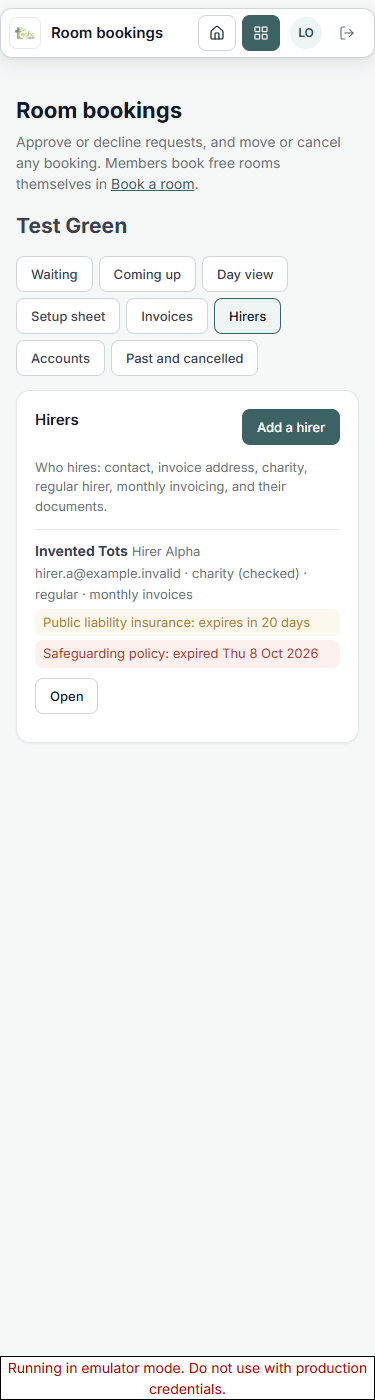
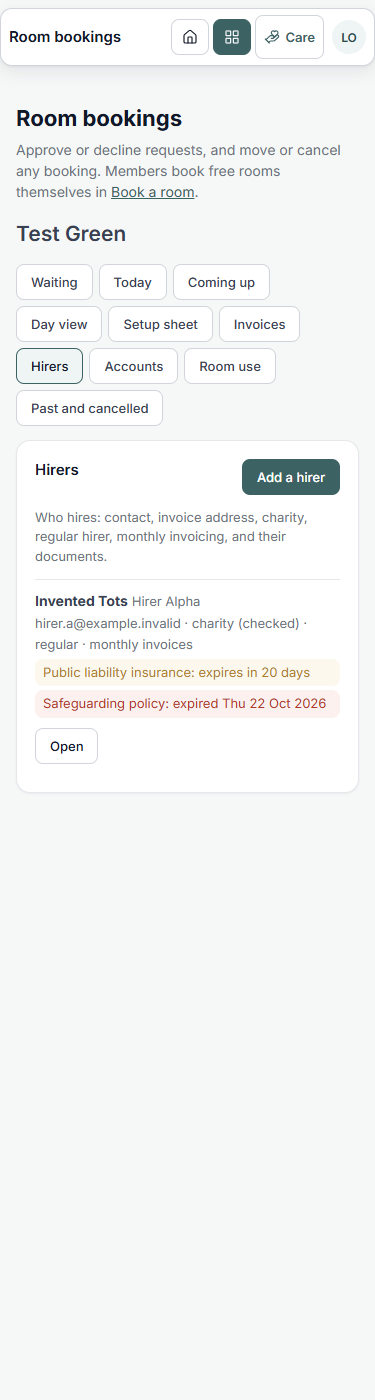
Events: the register's last warning - hirers who work with children, booked in the next 30 days with no safeguarding policy in date (counts only); the office ticks it on the hirer's record and the booking says so (F-276)

diff --git a/v2/egbc-events-money.js b/v2/egbc-events-money.js
@@ -24,6 +24,11 @@
     if (n <= SOON) return { cls: 'wait', words: 'expires in ' + n + ' day' + (n === 1 ? '' : 's') };
     return { cls: 'ok', words: 'until ' + EGBCEvents.fmtDate(d.expires + 'T12:00') };
   }
+  /* works with children, and no safeguarding policy in date on file */
+  function needsPolicy(h) {
+    if (!h || h.withChildren !== true) return false;
+    return !(h.documents || []).some(function (d) { return d.kind === 'safeguarding' && docState(d).cls !== 'no'; });
+  }
   function lastMonth() { var d = new Date(); d.setDate(1); d.setMonth(d.getMonth() - 1); return d.getFullYear() + '-' + String(d.getMonth() + 1).padStart(2, '0'); }
 
   function EGBCMoney(ctx) {
@@ -44,7 +49,8 @@
       var bad = (h.documents || []).map(function (d) { return { d: d, s: docState(d) }; }).filter(function (x) { return x.s.cls !== 'ok'; });
       return '<div class="hint" data-hirer="' + esc(b.key) + '">Hirer: <b>' + esc(h.org || h.name) + '</b>' +
         (h.charity ? ' · charity' + (h.charityChecked ? ' (checked)' : ' (not yet checked)') : '') + (h.regular ? ' · regular' : '') + (h.monthly ? ' · invoiced monthly' : '') + '</div>' +
-        bad.map(function (x) { return '<div class="st ' + x.s.cls + '" data-docwarn="' + esc(b.key) + '">' + esc(label(x.d.kind)) + ' ' + esc(x.s.words) + '.</div>'; }).join('');
+        bad.map(function (x) { return '<div class="st ' + x.s.cls + '" data-docwarn="' + esc(b.key) + '">' + esc(label(x.d.kind)) + ' ' + esc(x.s.words) + '.</div>'; }).join('') +
+        (needsPolicy(h) ? '<div class="st no" data-sgpolicy="' + esc(b.key) + '">Works with children: no safeguarding policy in date on file.</div>' : '');
     }
     function label(kind) { return (DOCS.filter(function (d) { return d[0] === kind; })[0] || [0, 'Document'])[1]; }
 
@@ -63,7 +69,7 @@
       if (openId !== undefined) form(openId, prefill);
     }
     function form(id, prefill) {
-      var h = id ? ctx.hirers().filter(function (x) { return x.id === id; })[0] : Object.assign({ name: '', org: '', email: '', phone: '', address: '', charity: false, charityNumber: '', charityChecked: false, regular: false, monthly: false, notes: '', documents: [] }, prefill || {});
+      var h = id ? ctx.hirers().filter(function (x) { return x.id === id; })[0] : Object.assign({ name: '', org: '', email: '', phone: '', address: '', charity: false, charityNumber: '', charityChecked: false, regular: false, monthly: false, withChildren: false, notes: '', documents: [] }, prefill || {});
       var box = document.getElementById('h-form'), f = function (k, l, t) { return '<div class="field"><label class="l" for="hf-' + k + '">' + l + '</label><input class="inp" id="hf-' + k + '" ' + (t || '') + ' value="' + esc(h[k] || '') + '"></div>'; };
       var ck = function (k, l) { return '<label style="display:flex;gap:8px;align-items:center;margin:6px 0"><input type="checkbox" id="hf-' + k + '"' + (h[k] ? ' checked' : '') + '> ' + l + '</label>'; };
       box.innerHTML = '<div class="card" id="h-card"><h2>' + (id ? esc(h.org || h.name) : 'A new hirer') + '</h2>' +
@@ -71,6 +77,8 @@
         '<div class="field"><label class="l" for="hf-address">Invoice address</label><textarea class="inp" id="hf-address" style="height:70px;padding:8px 12px">' + esc(h.address || '') + '</textarea></div>' +
         ck('charity', 'A registered charity') + f('charityNumber', 'Charity number') + ck('charityChecked', 'We have checked the charity number (the charity rate applies)') +
         ck('regular', 'A regular hirer (the regular hirer rate applies)') + ck('monthly', 'Invoice monthly, all their bookings in a month together') +
+        ck('withChildren', 'Works with children or young people (they need an in-date safeguarding policy on file)') +
+        (needsPolicy(h) ? '<p class="st no" id="hf-sgneed" style="margin:4px 0 8px">No safeguarding policy in date on file. Add it under Documents.</p>' : '') +
         '<div class="field"><label class="l" for="hf-notes">Notes</label><input class="inp" id="hf-notes" maxlength="500" value="' + esc(h.notes || '') + '"></div>' +
         '<div class="acts"><button class="btn" id="hf-save">Save</button></div>' +
         (id ? '<h3 style="margin:16px 0 6px">Documents</h3>' + ((h.documents || []).length ? h.documents.map(function (d, i) {
@@ -91,7 +99,7 @@
       var v = function (k) { return document.getElementById('hf-' + k).value.trim(); }, c = function (k) { return document.getElementById('hf-' + k).checked; };
       var d = { siteId: ctx.siteId(), name: v('name').slice(0, 120), org: v('org').slice(0, 120), email: v('email').toLowerCase().slice(0, 200), phone: v('phone').slice(0, 40),
         address: document.getElementById('hf-address').value.trim().slice(0, 500), charity: c('charity'), charityNumber: v('charityNumber').slice(0, 40), charityChecked: c('charityChecked'),
-        regular: c('regular'), monthly: c('monthly'), notes: v('notes').slice(0, 500), documents: h.documents || [], active: true, updatedAt: new Date().toISOString() };
+        regular: c('regular'), monthly: c('monthly'), withChildren: c('withChildren'), notes: v('notes').slice(0, 500), documents: h.documents || [], active: true, updatedAt: new Date().toISOString() };
       if (!d.name) { ctx.toast('It needs a name'); return; }
       if (!/^[^@\s]+@[^@\s]+\.[^@\s]+$/.test(d.email)) { ctx.toast('It needs an email address, to match their bookings'); return; }
       var ref = id ? db().collection('hirers').doc(id) : db().collection('hirers').doc('hr_' + EGBCEvents.key(14));

diff --git a/v2/functions/sg-warnings.js b/v2/functions/sg-warnings.js
@@ -103,6 +103,13 @@ export async function siteWarnings({ db: dbi, siteId, today, review }) {
     rows(dbi.collection('sgRisks').where('siteId', '==', siteId))
   ]);
   const kidsIn = kidsToday.filter((x) => x.state === 'in'), leadIns = leadToday.filter((x) => x.state === 'in');
+  /* hirers who work with children and have no safeguarding policy in date: only then are the next 30 days' bookings read (by date, so no new index) */
+  const hirers = (await rows(dbi.collection('hirers').where('siteId', '==', siteId))).filter((h) => h.active !== false && h.withChildren === true && !Core.hirerPolicyOk(h, today));
+  if (hirers.length) {
+    const booked = new Set((await rows(dbi.collection('bookings').where('day', '>=', today).where('day', '<=', Core.plus(today, 30))))
+      .filter((b) => b.siteId === siteId && b.kind === 'hire' && !['declined', 'cancelled'].includes(b.status)).map((b) => String((b.requester || {}).email || '').toLowerCase()).filter(Boolean));
+    hirers.forEach((h) => { h.booked = booked.has(String(h.email || '').toLowerCase()); });
+  }
   const events = await eventsAt(dbi, siteId, today, 60);
   const childrenIn = {}, leadersIn = {};
   kidsIn.forEach((c) => { childrenIn[c.groupId] = (childrenIn[c.groupId] || 0) + 1; });
@@ -119,6 +126,7 @@ export async function siteWarnings({ db: dbi, siteId, today, review }) {
   const w = Core.warningsFrom({ today, settings: st,
     activities: activities.map((a) => ({ id: a.id, link: a.link || {} })),
     groups: gs, childrenIn, leadersIn, events, leaderMids, checks, consent,
+    hirers: hirers.map((h) => ({ withChildren: true, documents: (h.documents || []).map((x) => ({ kind: x.kind, expires: x.expires || '' })), booked: !!h.booked })),
     risks: risks.map((r) => ({ id: r.id, activityId: r.activityId, reviewDue: r.reviewDue || '', status: r.status })) });
 
   /* THE DIALS */

diff --git a/v2/bookings-admin.html b/v2/bookings-admin.html
@@ -23,7 +23,7 @@
 <script src="egbc-events-roomday.js?v=202610220900"></script>
 <script src="egbc-events-quote.js?v=202610101700"></script>
 <script src="egbc-accounts.js?v=202610131600"></script>
-<script src="egbc-events-money.js?v=202610131600"></script>
+<script src="egbc-events-money.js?v=202610231000"></script>
 <link href="https://fonts.googleapis.com/css2?family=Inter:wght@400;500;600;700&display=swap" rel="stylesheet">
 <style>
   :root{

diff --git a/v2/FINDINGS-events.md b/v2/FINDINGS-events.md
@@ -10818,3 +10818,46 @@ Every function must take the church from the sign-in's claim or the document's p
 - **Please find headroom** in bookingShape, officeCreate, marksNewBooking and the roomDays rule. For example: work a value out once with `let` instead of calling the same function several times, and check the cheap conditions first so the costly ones are skipped.
 - **How to measure:** the scratch method is in H-8. Pad signedIn with N spare `&& true` and see when the two cases fail. Today they fail at N=1; aim for N≥10.
 - **It matters for multi-church too:** the church ruleset's gate costs a little more per call, so these two cases fail there until you've found the headroom.
+
+### F-276 — The safeguarding register's last warning: hirers who work with children (F-265's warnings table; the events window, 23 Oct)
+
+**Why:** F-265's warnings table planned "hirers with children: a safeguarding policy missing or out of date, for hirers booked in the next 30 days who work with children". It wasn't built in step 3 (F-271/F-272, "found and not fixed"), because nothing in the hub said which hirers work with children.
+
+**Built:**
+- **Hirers page** (egbc-events-money.js, on bookings-admin.html):
+  - A new tick on a hirer's record: **"Works with children or young people (they need an in-date safeguarding policy on file)"**.
+  - While it's ticked and no safeguarding policy in date is on file:
+    - the record says so
+    - each of their bookings says **"Works with children: no safeguarding policy in date on file."**
+- **The server** (sg-warnings.js, every 15 minutes with the other warnings):
+  - For each site, it reads only the hirers ticked "works with children" whose safeguarding policy is missing or has run out (one with no expiry date counts, as on the Hirers page).
+  - **Only when there are such hirers** does it read the next 30 days' bookings, by date alone, so **no new index**. It counts those with a hire booked (not declined or cancelled).
+  - The warning is amber: **"1 hirer who works with children is booked in the next 30 days with no safeguarding policy in date on file."** "Go to it" leads to the bookings page.
+  - It's **counts only: never a hirer's name.**
+  - It marks the register's existing control "The hirer's safeguarding policy on file" (`hirerDocs`), so a risk using that control is flagged on Tab A.
+
+**Proved:**
+- **sg-warnings-unit.test.mjs: 58/58** (5 new):
+  - booked with no policy: amber, 1
+  - the control marked
+  - an expired policy, or only insurance on file: both counted
+  - not counted: a policy in date, a policy with no expiry date, a hirer not booked, a hirer not ticked
+  - no hirer's name
+- **sg-warnings.test.mjs: 34/34** (4 new):
+  - an invented hirer whose policy ran out, booked in 10 days: amber, 1; an unbooked one not counted
+  - no name
+  - the lead's "Go to it" leads to the bookings page
+  - a new policy on file: the warning goes
+- **c5-stage3.test.mjs: 48/48** (3 new):
+  - no line before the tick
+  - ticked and saved, with the rest of the record kept
+  - then the booking card says so
+- **Breaks, 7 of 7 caught:**
+  - **The one that matters:** a hirer's name in the warning (caught by the browser test and the unit test).
+  - A policy that has run out still counting (browser and unit).
+  - A hirer with no booking coming counted.
+  - The tick not saved.
+  - The booking card silent.
+- **sg-dash: 45/45.**
+
+**Deploy:** `sgWarningsSync` and `sgWarningsNow` again. No rules change.
